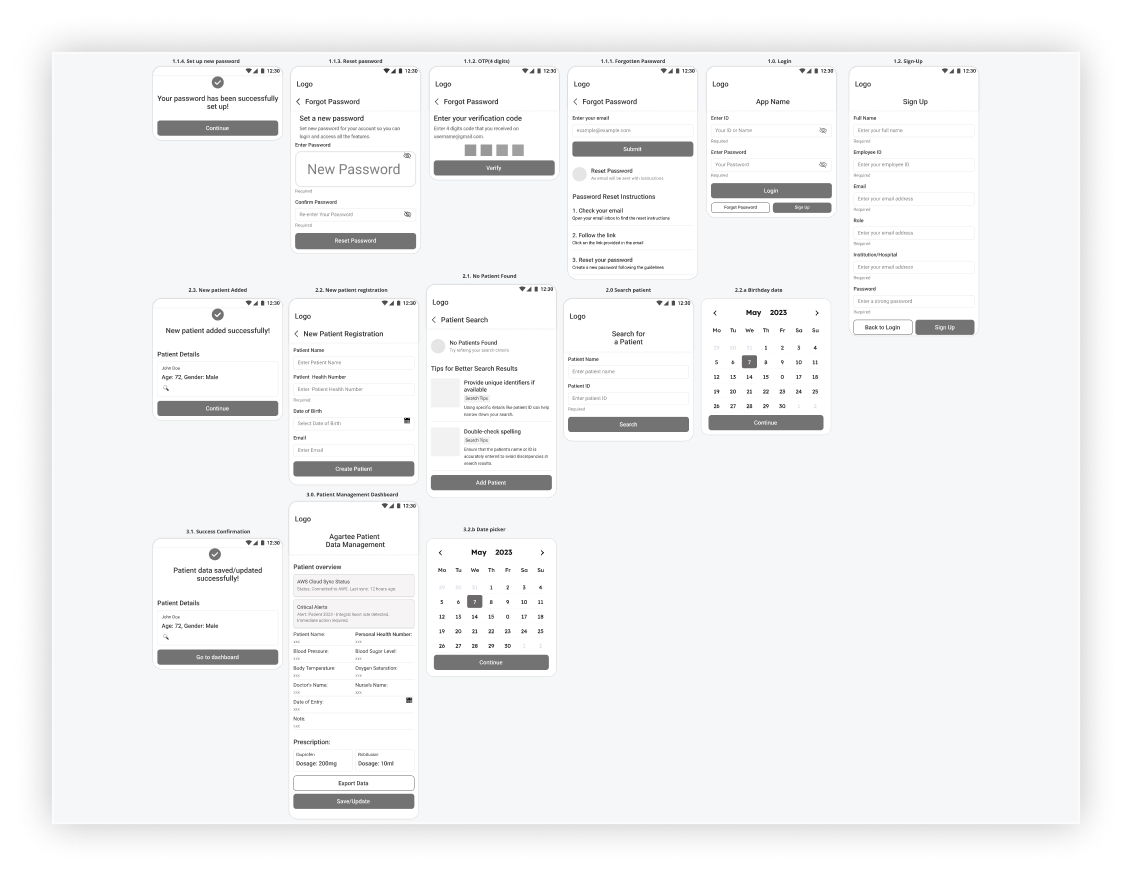
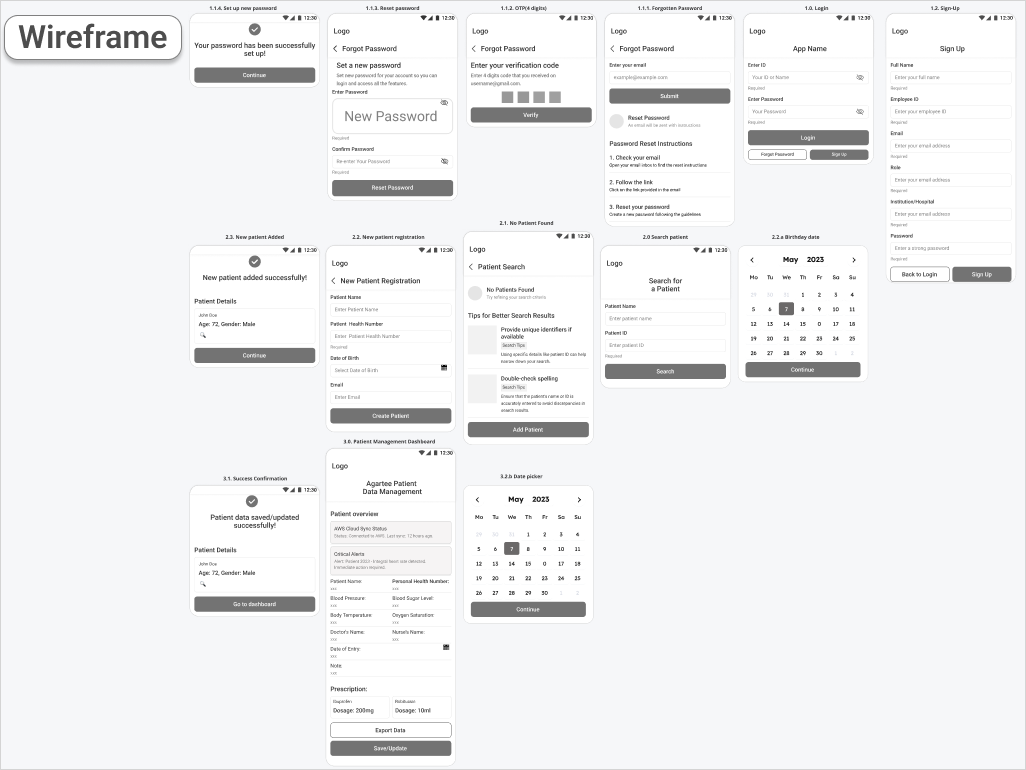
Fixed Agartee App slider imgs

Changed region(s): [[0.0, 0.0, 1.0, 1.0], [0.6238, 0.3117, 0.7173, 0.374], [0.8733, 0.0935, 0.9045, 0.1558]]

diff --git a/portfolio-details-agartee-app.html b/portfolio-details-agartee-app.html
@@ -103,7 +103,7 @@
             </div>
 
             <div class="swiper-slide">
-              <img src="assets/img/agartee-app/agartee-app-ds-slider2.png" alt="Slider #2">
+              <img src="assets/img/agartee-app/agartee-userflow-slider2.png" alt="Slider #2">
             </div>
 
             <div class="swiper-slide">
